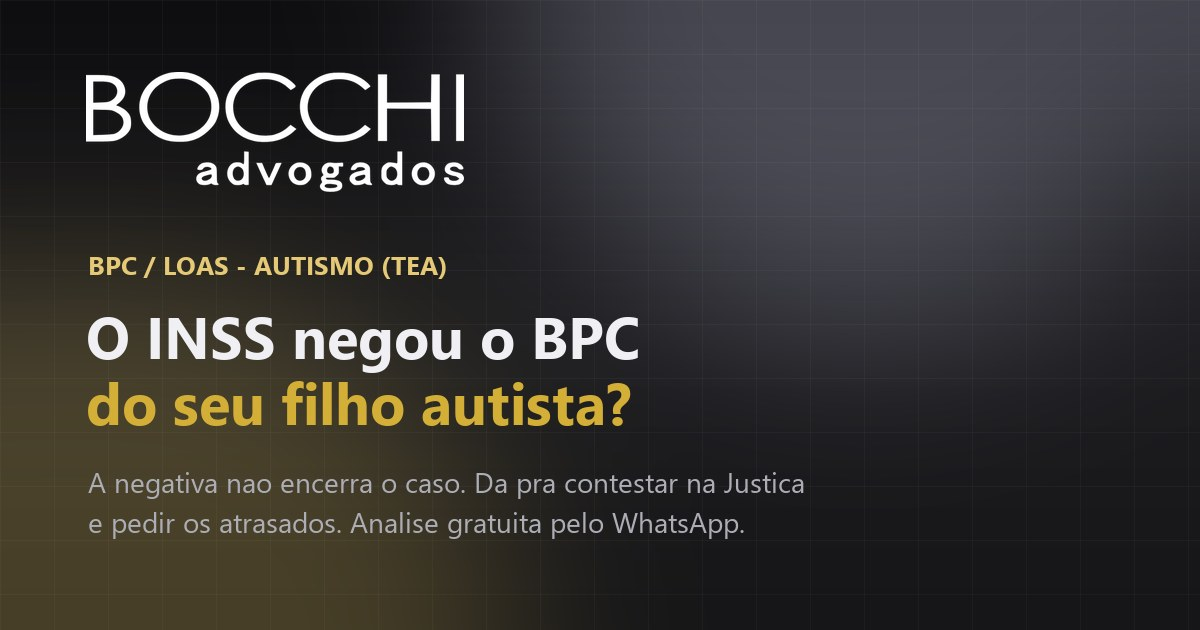
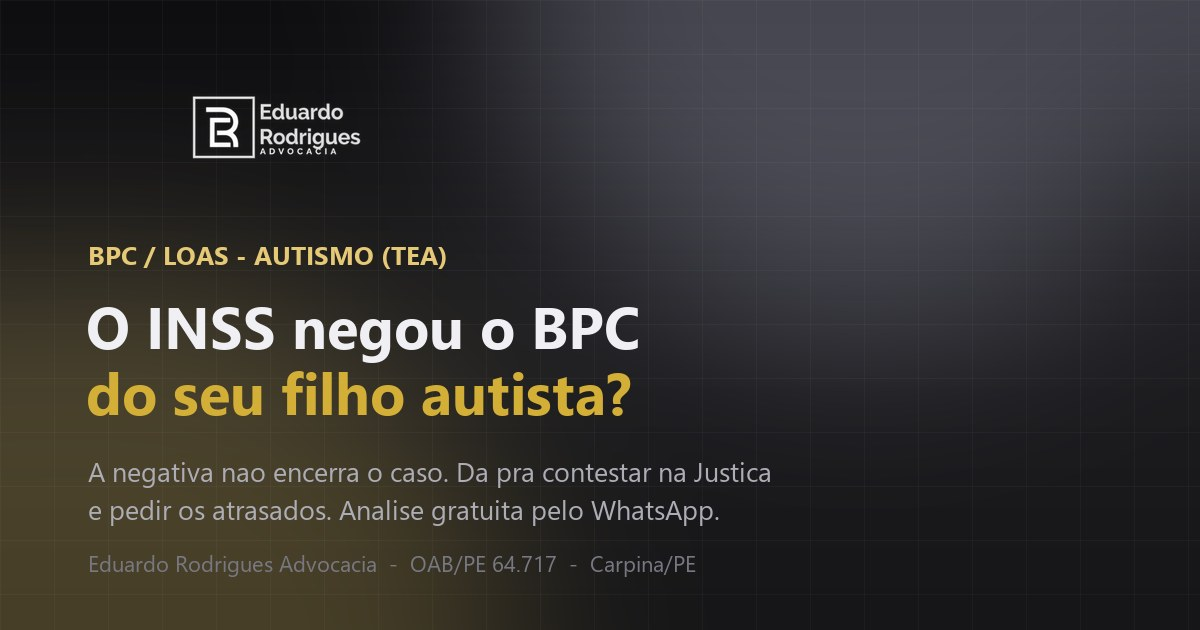
Rebrand para Eduardo Rodrigues Advocacia
- Marca, logo, favicon e og-image trocados pela identidade do escritorio
- Foto do escritorio (Carpina/PE) e retrato reais no lugar dos placeholders
- OAB/PE 64.717, 13 anos de atuacao e WhatsApp (81) 99930-4526 preenchidos
- Nenhum placeholder {{...}} restante
- .why-photo passa de 4/5 para 4/3: a foto do escritorio e paisagem

diff --git a/index.html b/index.html
@@ -10,20 +10,20 @@
      2) WHATSAPP ..... trocar CONFIG.whatsapp no <script> do rodape (so digitos, DDI+DDD+n).
                        Um unico lugar: atualiza TODOS os botoes, o rodape e o link tel:
      3) TELEFONE ..... trocar CONFIG.phoneDisplay e o campo "telephone" do JSON-LD LegalService
-     PENDENTE: {{OAB}} e {{ANOS}} continuam como placeholder. Busque por "{{" neste arquivo.
+     Dados ja preenchidos: Eduardo Rodrigues Advocacia - OAB/PE 64.717 - Carpina/PE.
      ====================================================== -->
 
-<title>BPC Autista Negado pelo INSS | Advogado Especialista | Bocchi Advogados</title>
+<title>BPC Autista Negado pelo INSS | Advogado Especialista | Eduardo Rodrigues Advocacia</title>
 <meta name="description" content="O INSS negou o BPC do seu filho autista? A negativa é uma decisão administrativa e pode ser contestada na Justiça, com pedido dos valores atrasados. Análise gratuita pelo WhatsApp.">
 <meta name="keywords" content="BPC autista negado, BPC LOAS autismo, benefício assistencial autismo, INSS negou BPC, advogado BPC autismo, CID F84, perícia do INSS autismo, avaliação social INSS">
-<meta name="author" content="Bocchi Advogados">
+<meta name="author" content="Eduardo Rodrigues Advocacia">
 <meta name="robots" content="index, follow, max-image-preview:large">
 <meta name="theme-color" content="#161618">
 <link rel="canonical" href="https://eduardocdc0-lgtm.github.io/bpc-autista-negado">
 
 <meta property="og:type" content="website">
 <meta property="og:locale" content="pt_BR">
-<meta property="og:site_name" content="Bocchi Advogados">
+<meta property="og:site_name" content="Eduardo Rodrigues Advocacia">
 <meta property="og:title" content="BPC Autista Negado pelo INSS | Advogado Especialista">
 <meta property="og:description" content="O INSS negou o BPC do seu filho autista? A negativa não encerra o caso: dá pra contestar na Justiça e pedir os atrasados. Análise gratuita pelo WhatsApp.">
 <meta property="og:url" content="https://eduardocdc0-lgtm.github.io/bpc-autista-negado">
@@ -50,17 +50,17 @@
 {
   "@context": "https://schema.org",
   "@type": "LegalService",
-  "name": "Bocchi Advogados",
+  "name": "Eduardo Rodrigues Advocacia",
   "description": "Advocacia previdenciária especializada em BPC/LOAS para autismo e demais benefícios do INSS. Atendimento humanizado e 100% digital em todo o Brasil.",
   "url": "https://eduardocdc0-lgtm.github.io/bpc-autista-negado",
   "image": "https://eduardocdc0-lgtm.github.io/bpc-autista-negado/assets/og-image.jpg",
   "logo": "https://eduardocdc0-lgtm.github.io/bpc-autista-negado/assets/logo.webp",
   "priceRange": "Sob consulta",
-  "telephone": "+5508000003373",
+  "telephone": "+5581999304526",
   "areaServed": { "@type": "Country", "name": "Brasil" },
   "knowsAbout": ["BPC/LOAS", "Autismo (TEA)", "Benefícios do INSS", "Direito Previdenciário", "Perícia médica do INSS", "Avaliação social do INSS"],
   "serviceType": "Advocacia previdenciária e assistencial",
-  "founder": { "@type": "Person", "name": "Bocchi Advogados" },
+  "founder": { "@type": "Person", "name": "Eduardo Rodrigues" },
   "memberOf": { "@type": "Organization", "name": "Ordem dos Advogados do Brasil (OAB)" }
 }
 </script>
@@ -413,7 +413,7 @@ section.block.light .highlight .gold-text{background:var(--grad-gold);-webkit-ba
 .why{display:grid;gap:40px;margin-top:80px}
 @media (min-width:960px){.why{grid-template-columns:.82fr 1.18fr;gap:54px;align-items:center}}
 .why-photo{position:relative;border-radius:22px;overflow:hidden;box-shadow:var(--shadow)}
-.why-photo img{width:100%;height:auto;aspect-ratio:4/5;object-fit:cover;transition:transform .8s cubic-bezier(.2,.8,.2,1)}
+.why-photo img{width:100%;height:auto;aspect-ratio:4/3;object-fit:cover;transition:transform .8s cubic-bezier(.2,.8,.2,1)}
 .why-photo:hover img{transform:scale(1.06)}
 .glass{
   position:absolute;left:16px;right:16px;bottom:16px;z-index:2;
@@ -590,8 +590,8 @@ footer{background:var(--navy-900);border-top:1px solid rgba(255,255,255,.07);pad
 <!-- 5.1 HEADER -->
 <header id="header">
   <div class="container">
-    <a href="#topo" class="brand" aria-label="Bocchi Advogados">
-      <img src="assets/logo.webp" alt="Bocchi Advogados — advocacia previdenciária" width="630" height="200">
+    <a href="#topo" class="brand" aria-label="Eduardo Rodrigues Advocacia">
+      <img src="assets/logo.webp" alt="Eduardo Rodrigues Advocacia — advocacia previdenciária em Carpina/PE" width="537" height="200">
     </a>
     <a class="btn btn-wpp" data-wpp>Falar com especialista</a>
   </div>
@@ -795,10 +795,10 @@ footer{background:var(--navy-900);border-top:1px solid rgba(255,255,255,.07);pad
     <div class="why">
       <!-- TROCAR POR assets/escritorio.webp definitiva: interior ou fachada do escritório, luz quente -->
       <div class="why-photo reveal">
-        <img src="assets/escritorio.webp" alt="Escritório de advocacia especializado em BPC/LOAS para autismo" width="900" height="661" loading="lazy" decoding="async">
+        <img src="assets/escritorio.webp" alt="Escritório de Eduardo Rodrigues Advocacia, especializado em BPC/LOAS para autismo" width="900" height="661" loading="lazy" decoding="async">
         <div class="glass">
-          <b>Bocchi Advogados</b>
-          <span>Atendimento próximo, humano e especializado.</span>
+          <b>Eduardo Rodrigues Advocacia</b>
+          <span>Carpina/PE · atendimento em todo o Brasil.</span>
         </div>
       </div>
 
@@ -840,21 +840,21 @@ footer{background:var(--navy-900);border-top:1px solid rgba(255,255,255,.07);pad
     <div class="about">
       <!-- TROCAR POR assets/profissional.webp definitiva: retrato vertical do advogado, traje formal -->
       <div class="about-photo reveal">
-        <img src="assets/profissional.webp" alt="Advogado especialista em BPC/LOAS para autismo e benefícios do INSS" width="900" height="1350" loading="lazy" decoding="async">
+        <img src="assets/profissional.webp" alt="Eduardo Rodrigues, advogado especialista em BPC/LOAS para autismo e benefícios do INSS" width="900" height="1350" loading="lazy" decoding="async">
         <div class="glass">
-          <b>Bocchi Advogados</b>
-          <span>{{OAB}} · Advocacia previdenciária</span>
+          <b>Eduardo Rodrigues Advocacia</b>
+          <span>OAB/PE 64.717 · Carpina/PE</span>
         </div>
       </div>
 
       <div class="prose reveal d2">
         <span class="eyebrow">Quem vai te atender</span>
         <h2>Atendimento <span class="gold-text">humanizado</span>, sem burocracia.</h2>
-        <p>O escritório <b>Bocchi Advogados</b> é especializado em BPC/LOAS e benefícios do INSS. Nossa missão é simples: tratar cada família como gente, com atendimento imediato, linguagem clara e zero burocracia para você.</p>
+        <p>O escritório <b>Eduardo Rodrigues Advocacia</b> é especializado em BPC/LOAS e benefícios do INSS. Nossa missão é simples: tratar cada família como gente, com atendimento imediato, linguagem clara e zero burocracia para você.</p>
         <p>Atuamos em <b>todo o Brasil</b> de forma 100% digital. A perícia, a avaliação social e o local de recebimento do benefício ficam sempre no ponto mais próximo e acessível da sua residência, com comodidade para você e sua família.</p>
 
         <div class="stats">
-          <div class="stat"><b data-count="{{ANOS}}" data-prefix="+">+{{ANOS}}</b><span>anos de atuação em benefícios do INSS</span></div>
+          <div class="stat"><b data-count="13" data-prefix="+">+13</b><span>anos de atuação em benefícios do INSS</span></div>
           <div class="stat"><b data-count="100" data-suffix="%">0%</b><span>atendimento digital em todo o Brasil</span></div>
           <div class="stat"><b>OAB</b><span>ética e sigilo profissional</span></div>
         </div>
@@ -907,7 +907,7 @@ footer{background:var(--navy-900);border-top:1px solid rgba(255,255,255,.07);pad
   <div class="container">
     <div class="foot-grid">
       <div>
-        <img src="assets/logo.webp" alt="Bocchi Advogados" width="630" height="200" loading="lazy" decoding="async">
+        <img src="assets/logo.webp" alt="Eduardo Rodrigues Advocacia" width="537" height="200" loading="lazy" decoding="async">
         <p>Advocacia previdenciária especializada em BPC/LOAS e benefícios do INSS. Atendimento humanizado em todo o Brasil.</p>
       </div>
       <div>
@@ -929,7 +929,7 @@ footer{background:var(--navy-900);border-top:1px solid rgba(255,255,255,.07);pad
         </ul>
       </div>
     </div>
-    <p class="legal">© <span id="ano"></span> Bocchi Advogados. Todos os direitos reservados. Este site NÃO faz parte e não representa o site do Facebook, Meta Inc., Google ou de qualquer órgão do Governo, e NÃO oferece serviço oficial do INSS. Trabalhamos exclusivamente com serviços jurídicos, em conformidade com a legislação vigente e com o Código de Ética e Disciplina da Ordem dos Advogados do Brasil (OAB). Em respeito ao Provimento 205/2021 da OAB, este material tem caráter meramente informativo e não constitui captação de clientela, mercantilização da profissão ou promessa de resultado.</p>
+    <p class="legal">© <span id="ano"></span> Eduardo Rodrigues Advocacia. Todos os direitos reservados. Este site NÃO faz parte e não representa o site do Facebook, Meta Inc., Google ou de qualquer órgão do Governo, e NÃO oferece serviço oficial do INSS. Trabalhamos exclusivamente com serviços jurídicos, em conformidade com a legislação vigente e com o Código de Ética e Disciplina da Ordem dos Advogados do Brasil (OAB). Em respeito ao Provimento 205/2021 da OAB, este material tem caráter meramente informativo e não constitui captação de clientela, mercantilização da profissão ou promessa de resultado.</p>
   </div>
 </footer>
 
@@ -942,8 +942,8 @@ footer{background:var(--navy-900);border-top:1px solid rgba(255,255,255,.07);pad
 <script>
 /* ===== a) CONFIG — único lugar com os dados de contato ===== */
 const CONFIG = {
-  whatsapp: "5508000003373",        // DDI+DDD+número, só dígitos
-  phoneDisplay: "0800 000 3373",    // como aparece na tela
+  whatsapp: "5581999304526",        // DDI+DDD+número, só dígitos
+  phoneDisplay: "(81) 99930-4526",    // como aparece na tela
   mensagemPadrao: "Olá! Vim pelo site. O BPC do meu filho autista foi negado pelo INSS e gostaria de uma análise gratuita do caso."
 };
 

diff --git a/README.md b/README.md
@@ -9,12 +9,11 @@ Tudo que muda de escritório está em dois lugares do `index.html`:
 
 1. `const CONFIG` (fim do arquivo) — WhatsApp, telefone e a mensagem padrão.
    Um único lugar atualiza os 11 CTAs, o rodapé e o `tel:`.
-2. O domínio — procure por `bocchiadvogados.com.br` e troque em todas as ocorrências
+2. O domínio — procure por `adveduardorodrigues.com.br` e troque em todas as ocorrências
    (canonical, og:url, og:image, twitter:image, os dois JSON-LD, `sitemap.xml` e `robots.txt`).
 
 ## Pendências
 
-- `{{OAB}}` e `{{ANOS}}` ainda são placeholder. Busque por `{{` no `index.html`.
 - `assets/conceito.webp` e `assets/escritorio.webp` são placeholder visual.
   Para trocar, substitua o arquivo mantendo o mesmo nome — o HTML não muda.
 
